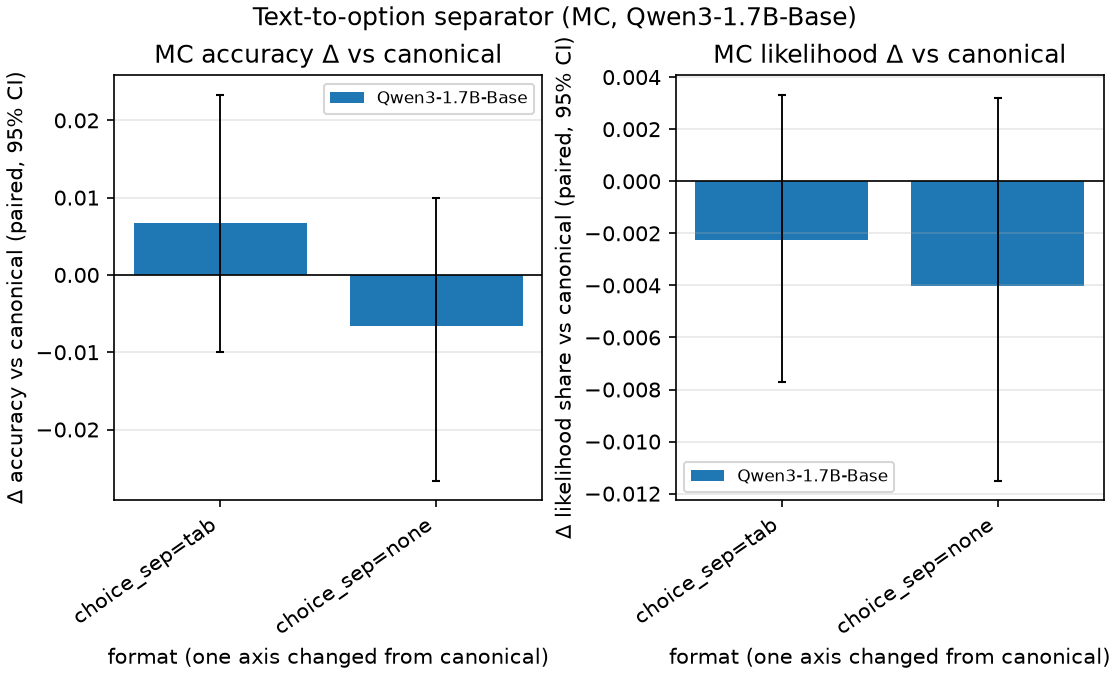
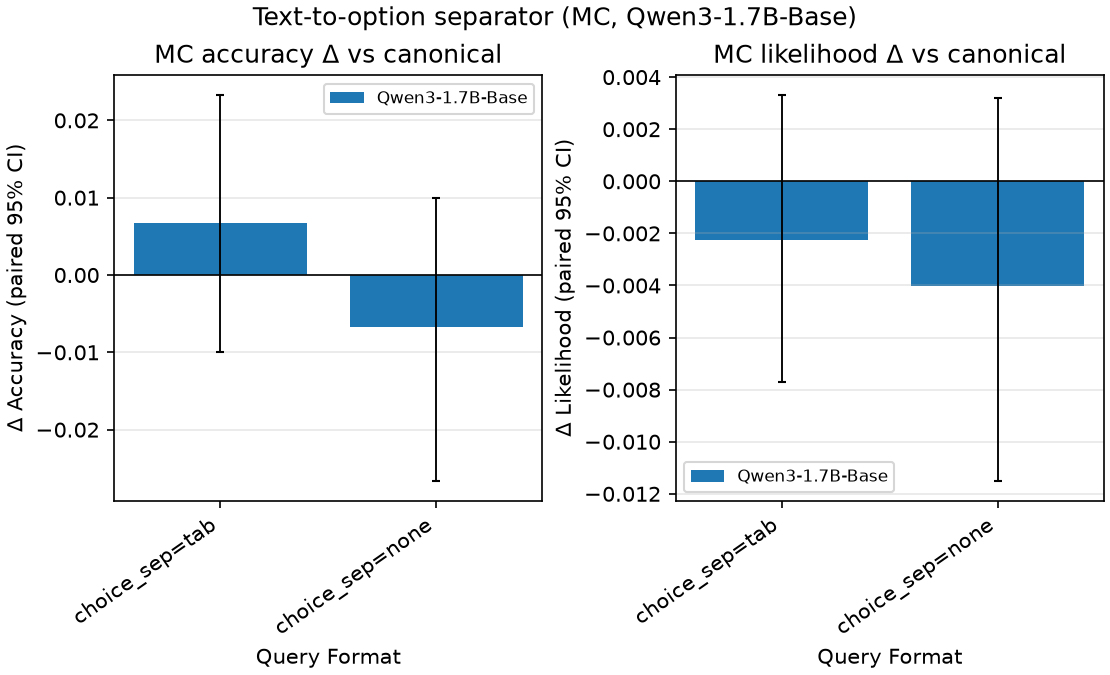
Format effect charts: shorter axis labels

diff --git a/scripts/po_format_effects.py b/scripts/po_format_effects.py
@@ -113,8 +113,8 @@ def main(
         ax.axhline(0, color="black", lw=0.8)
         ax.set_xticks(x)
         ax.set_xticklabels(fmts, rotation=35, ha="right")
-        ax.set_xlabel("format (one axis changed from canonical)")
-        ax.set_ylabel("Δ accuracy vs canonical (paired, 95% CI)" if metric == "primary" else "Δ likelihood share vs canonical (paired, 95% CI)")
+        ax.set_xlabel("Query Format")
+        ax.set_ylabel("Δ Accuracy (paired 95% CI)" if metric == "primary" else "Δ Likelihood (paired 95% CI)")
         ax.set_title(title)
         ax.grid(axis="y", alpha=0.3)
         ax.legend(fontsize=8)
